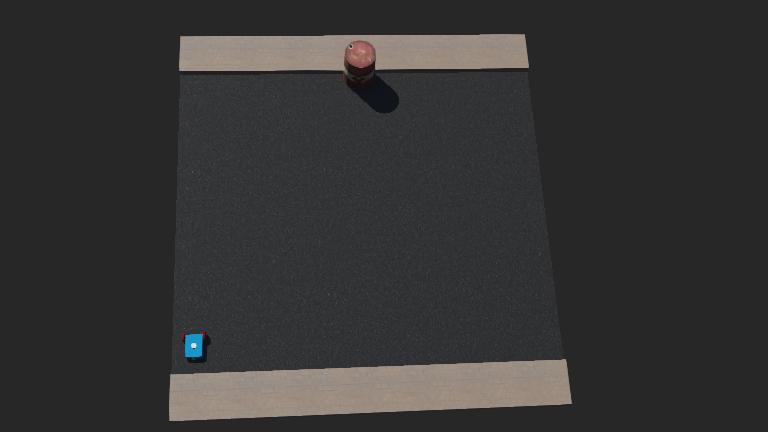
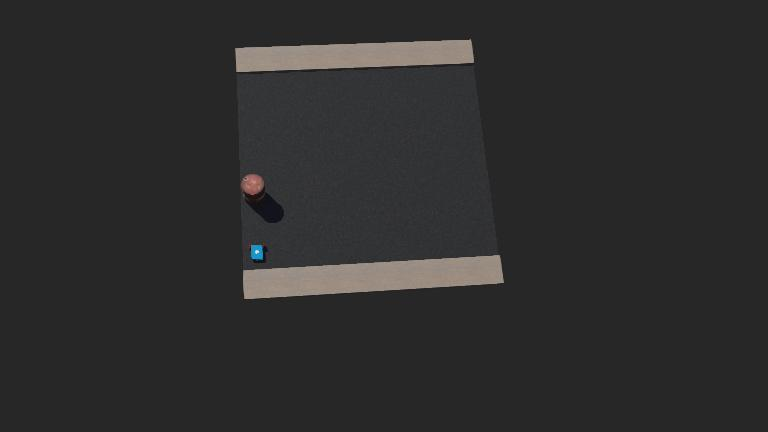
object avoidence

diff --git a/controllers/robotControl/navigation/navigator.py b/controllers/robotControl/navigation/navigator.py
@@ -1,4 +1,4 @@
-from math import atan2, pi, sqrt
+from math import atan2, pi, sqrt, cos, sin
 
 class Navigator:
     def __init__(self, robot, timestep):
@@ -14,6 +14,15 @@ class Navigator:
         self.TURN_THRESHOLD = 0.05  # About 11.5 degrees - angle at which to turn in place
         self.MAX_LINEAR_SPEED = 0.8
         self.MAX_ANGULAR_SPEED = 0.8
+        
+        # Obstacle avoidance parameters
+        self.avoiding_obstacle = False
+        self.avoidance_direction = 1  # 1 for left, -1 for right
+        self.AVOIDANCE_TURN_ANGLE = pi/2  # 90 degrees for avoidance maneuver
+        self.MIN_OBSTACLE_DISTANCE = 0.5  # Minimum distance to keep from obstacles
+        self.SAFE_DISTANCE = 0.8  # Distance to maintain while avoiding
+        self.avoidance_waypoint = None
+        self.original_target = None
         
     def normalize_angle(self, angle):
         """Normalize angle to [-pi, pi]"""
@@ -34,6 +43,16 @@ class Navigator:
         self.path_index = 0
         self.current_goal = self.current_path[self.path_index] if waypoints else None
         
+    def generate_avoidance_waypoint(self, x, y, theta, target):
+        """Generate a temporary waypoint to help avoid the obstacle"""
+        # Calculate perpendicular point at a safe distance
+        perp_angle = theta + (self.AVOIDANCE_TURN_ANGLE * self.avoidance_direction)
+        safe_x = x + self.SAFE_DISTANCE * cos(perp_angle)
+        safe_y = y + self.SAFE_DISTANCE * sin(perp_angle)
+        
+        # Create waypoint slightly ahead in the avoidance direction
+        return {'x': safe_x, 'y': safe_y}
+        
     def get_next_command(self, current_position):
         """Get the next movement command to reach the goal"""
         # If no path or path completed, stop
@@ -41,60 +60,89 @@ class Navigator:
             self.current_goal = None
             return {'type': 'stop'}
             
-        # Get current position
+        # Get current position and obstacle info
         x = current_position['x']
         y = current_position['y']
         theta = current_position['theta']
+        obstacle_detected = current_position.get('obstacle_detected', False)
+        obstacle_distance = current_position.get('obstacle_distance', float('inf'))
         
         # Get current target point
-        target = self.current_path[self.path_index]
+        target = self.avoidance_waypoint if self.avoiding_obstacle else self.current_path[self.path_index]
         
-        # Calculate distance and angle to target
-        dx = target['x'] - x
-        dy = target['y'] - y
-        distance = sqrt(dx*dx + dy*dy)
-        
-        # Check if we've reached the current target
-        if distance < self.waypoint_threshold:
-            self.path_index += 1
-            if self.path_index >= len(self.current_path):
-                self.current_goal = None
-                return {'type': 'stop'}
-            self.current_goal = self.current_path[self.path_index]
-            target = self.current_goal
+        # Handle obstacle avoidance
+        if obstacle_detected:
+            if not self.avoiding_obstacle:
+                # Start avoidance maneuver
+                self.avoiding_obstacle = True
+                self.original_target = self.current_path[self.path_index]
+                
+                # Choose avoidance direction based on target position
+                target_angle = atan2(target['y'] - y, target['x'] - x)
+                angle_diff = self.normalize_angle(target_angle - theta)
+                self.avoidance_direction = 1 if angle_diff > 0 else -1
+                
+                # Generate temporary avoidance waypoint
+                self.avoidance_waypoint = self.generate_avoidance_waypoint(x, y, theta, target)
+                target = self.avoidance_waypoint
+            
+            # Calculate avoidance angle
+            avoidance_angle = theta + (self.AVOIDANCE_TURN_ANGLE * self.avoidance_direction)
+            
+            # Generate avoidance command with reduced speed near obstacles
+            speed_factor = min(1.0, obstacle_distance / self.MIN_OBSTACLE_DISTANCE)
+            return {
+                'type': 'move',
+                'linear_velocity': max(0.1, self.MAX_LINEAR_SPEED * speed_factor * 0.5),
+                'angular_velocity': self.MAX_ANGULAR_SPEED * self.avoidance_direction
+            }
+        else:
+            # If we were avoiding but now clear, check if we should return to original path
+            if self.avoiding_obstacle:
+                # Calculate distance to avoidance waypoint
+                dx_avoid = self.avoidance_waypoint['x'] - x
+                dy_avoid = self.avoidance_waypoint['y'] - y
+                dist_to_avoid = sqrt(dx_avoid*dx_avoid + dy_avoid*dy_avoid)
+                
+                if dist_to_avoid < self.waypoint_threshold:
+                    # Reached avoidance waypoint, return to original path
+                    self.avoiding_obstacle = False
+                    self.avoidance_waypoint = None
+                    target = self.original_target
+            
+            # Normal navigation logic
             dx = target['x'] - x
             dy = target['y'] - y
             distance = sqrt(dx*dx + dy*dy)
-        
-        # Calculate desired heading
-        desired_theta = self.normalize_angle(atan2(dy, dx))
-        angle_diff = abs(self.normalize_angle(desired_theta - theta))
-        
-        # Determine turn direction
-        turn_direction = -1 if abs(angle_diff - pi) < 0.1 else self.get_turn_direction(theta, desired_theta)
-        
-        # If we're significantly off angle, turn in place
-        if angle_diff > self.TURN_THRESHOLD:
+            
+            # If close enough to waypoint, move to next one
+            if not self.avoiding_obstacle and distance < self.waypoint_threshold:
+                self.path_index += 1
+                if self.path_index >= len(self.current_path):
+                    return {'type': 'stop'}
+                target = self.current_path[self.path_index]
+                dx = target['x'] - x
+                dy = target['y'] - y
+                distance = sqrt(dx*dx + dy*dy)
+            
+            # Calculate target heading
+            target_heading = atan2(dy, dx)
+            heading_error = self.normalize_angle(target_heading - theta)
+            
+            # If heading error is large, turn in place
+            if abs(heading_error) > self.TURN_THRESHOLD:
+                return {
+                    'type': 'move',
+                    'linear_velocity': 0,
+                    'angular_velocity': self.MAX_ANGULAR_SPEED * self.get_turn_direction(theta, target_heading)
+                }
+            
+            # Otherwise, move towards target
             return {
                 'type': 'move',
-                'linear_velocity': 0.0,
-                'angular_velocity': self.MAX_ANGULAR_SPEED * turn_direction
+                'linear_velocity': self.MAX_LINEAR_SPEED * (0.5 if self.avoiding_obstacle else 1.0),
+                'angular_velocity': self.MAX_ANGULAR_SPEED * heading_error / pi
             }
-        
-        # If we're close enough to the desired angle, move straight
-        if angle_diff < self.heading_threshold:
-            return {
-                'type': 'move',
-                'linear_velocity': self.MAX_LINEAR_SPEED * min(1.0, distance),
-                'angular_velocity': 0.0
-            }
-        
-        # Otherwise, move forward while making small angle corrections
-        return {
-            'type': 'move',
-            'linear_velocity': self.MAX_LINEAR_SPEED * min(1.0, distance) * 0.5,
-            'angular_velocity': self.MAX_ANGULAR_SPEED * turn_direction * 0.3
-        }
 
     def set_thresholds(self, waypoint_threshold, heading_threshold):
         """Set the waypoint and heading thresholds"""

diff --git a/controllers/robotControl/path_planner.py b/controllers/robotControl/path_planner.py
@@ -36,8 +36,8 @@ def generate_cleaning_path(boundary_points, surface_cleaner_diameter=12, path_ov
     waypoints = []
     for i in range(0, len(path_coordinates), 2):
         # Convert from inches to meters (1 inch = 0.0254 meters)
-        x_meters = path_coordinates[i] * 0.0254 + origin_x
-        y_meters = path_coordinates[i+1] * 0.0254 + origin_y
+        x_meters = path_coordinates[i]['x'] * 0.0254 + origin_x
+        y_meters = path_coordinates[i]['y'] * 0.0254 + origin_y
         waypoints.append({'x': x_meters, 'y': y_meters})
     
     return waypoints
@@ -85,7 +85,7 @@ def _calculate_path(points_inches, surface_cleaner_diameter, path_overlap, edge_
     spacing_pixels = int((surface_cleaner_diameter - path_overlap) * scale)
     
     # Generate path coordinates
-    path = []
+    path_coords = []
     y = padding
     going_right = True
     
@@ -99,21 +99,17 @@ def _calculate_path(points_inches, surface_cleaner_diameter, path_overlap, edge_
             
             # Convert back to inches and add to path
             if going_right:
-                path.extend([
-                    (start_x - padding) / scale + min_x,
-                    (y - padding) / scale + min_y,
-                    (end_x - padding) / scale + min_x,
-                    (y - padding) / scale + min_y
+                path_coords.extend([
+                    {'x': (start_x - padding) / scale + min_x, 'y': (y - padding) / scale + min_y},
+                    {'x': (end_x - padding) / scale + min_x, 'y': (y - padding) / scale + min_y}
                 ])
             else:
-                path.extend([
-                    (end_x - padding) / scale + min_x,
-                    (y - padding) / scale + min_y,
-                    (start_x - padding) / scale + min_x,
-                    (y - padding) / scale + min_y
+                path_coords.extend([
+                    {'x': (end_x - padding) / scale + min_x, 'y': (y - padding) / scale + min_y},
+                    {'x': (start_x - padding) / scale + min_x, 'y': (y - padding) / scale + min_y}
                 ])
         
         y += spacing_pixels
         going_right = not going_right
     
-    return path 
+    return path_coords 

diff --git a/controllers/robotControl/utils/state.py b/controllers/robotControl/utils/state.py
@@ -11,6 +11,11 @@ class State:
         self.prev_theta = 0.0
         self.TURN_THRESHOLD = 0.01  # About 0.57 degrees in radians
         
+        # Obstacle detection parameters
+        self.obstacle_detected = False
+        self.obstacle_distance = float('inf')
+        self.OBSTACLE_THRESHOLD = 0.5  # Distance in meters to consider as obstacle
+        
     def update(self, sensor_data):
         """Update state estimation using sensor data"""
         # Get sensor readings
@@ -29,6 +34,14 @@ class State:
             forward_motion = wheel_data['forward_motion']
             self.x += forward_motion * cos(self.theta)
             self.y += forward_motion * sin(self.theta)
+            
+        # Update obstacle detection
+        if 'distance' in sensor_data:
+            self.obstacle_distance = sensor_data['distance']
+            self.obstacle_detected = self.obstacle_distance < self.OBSTACLE_THRESHOLD
+        else:
+            self.obstacle_detected = False
+            self.obstacle_distance = float('inf')
     
     def normalize_angle(self, angle):
         """Normalize angle to [-pi, pi]"""
@@ -43,7 +56,9 @@ class State:
         return {
             'x': self.x,
             'y': self.y,
-            'theta': self.theta
+            'theta': self.theta,
+            'obstacle_detected': self.obstacle_detected,
+            'obstacle_distance': self.obstacle_distance
         }
         
     def reset(self):

diff --git a/controllers/robotControl/robotControl.py b/controllers/robotControl/robotControl.py
@@ -54,8 +54,17 @@ class RobotController:
         self.sensor_manager.update()
         self.state.update(self.sensor_manager.get_sensor_data())
         
+        # Get current state including obstacle information
+        current_state = self.state.get_position()
+        
         # Get and execute navigation commands
-        nav_command = self.navigator.get_next_command(self.state.get_position())
+        nav_command = self.navigator.get_next_command(current_state)
+        
+        # Execute the command with obstacle awareness
+        if current_state.get('obstacle_detected', False):
+            # Log obstacle detection
+            print(f"Obstacle detected at distance: {current_state['obstacle_distance']:.2f}m")
+            
         self.motion_controller.execute_command(nav_command)
         
         # If we've stopped, exit the simulation
